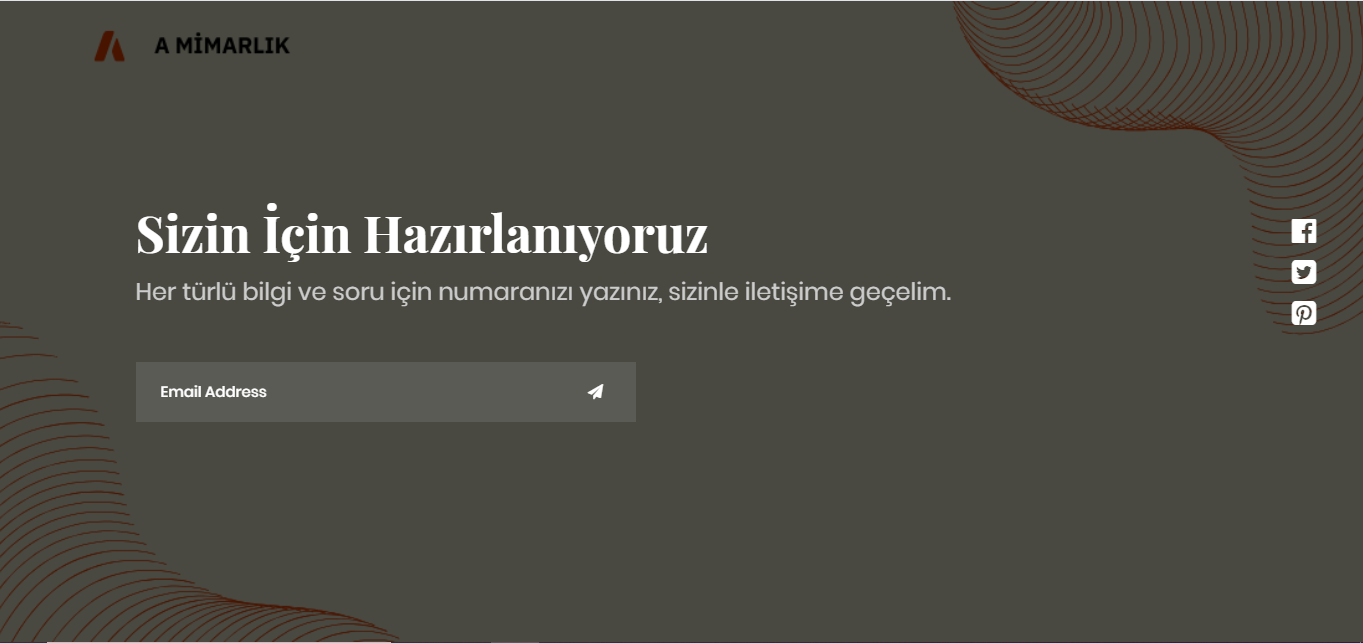
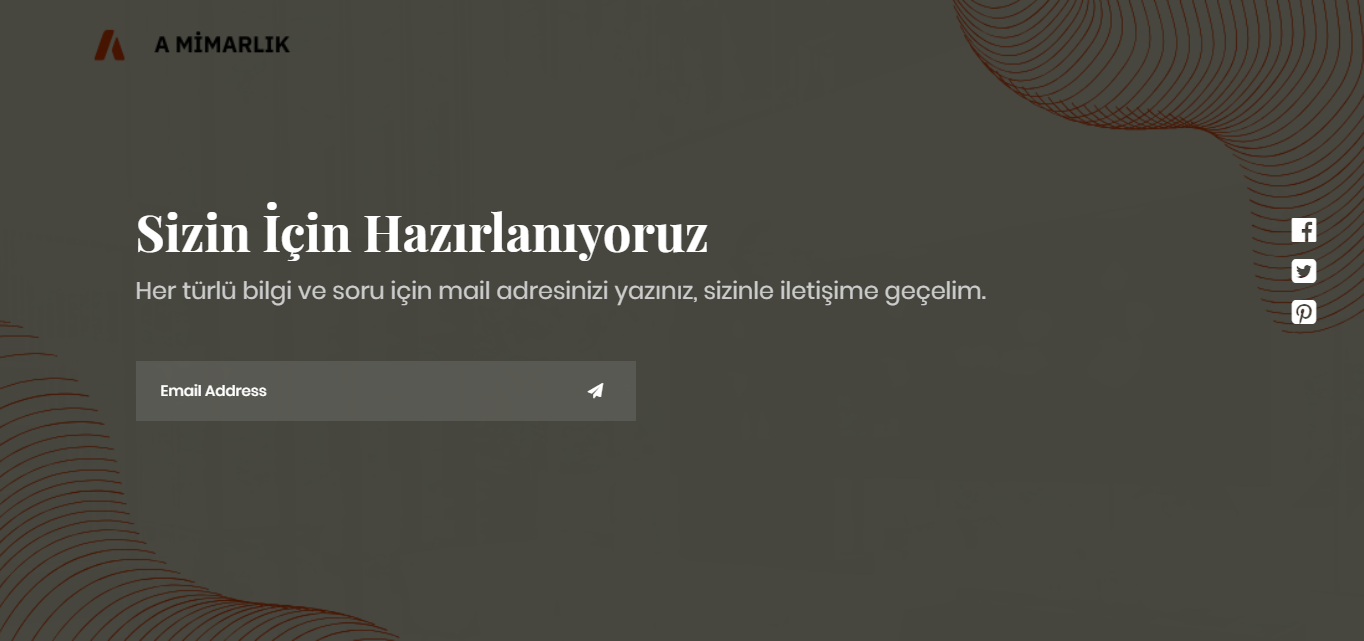
change

diff --git a/index.html b/index.html
@@ -44,7 +44,7 @@
 				</h3>
 
 				<p class="m2-txt1 respon6">
-					Her türlü bilgi ve soru için numaranızı yazınız, sizinle iletişime geçelim.
+					Her türlü bilgi ve soru için mail adresinizi yazınız, sizinle iletişime geçelim.
 				</p>
 
 				<form class="contact100-form validate-form p-t-55 w-full">
